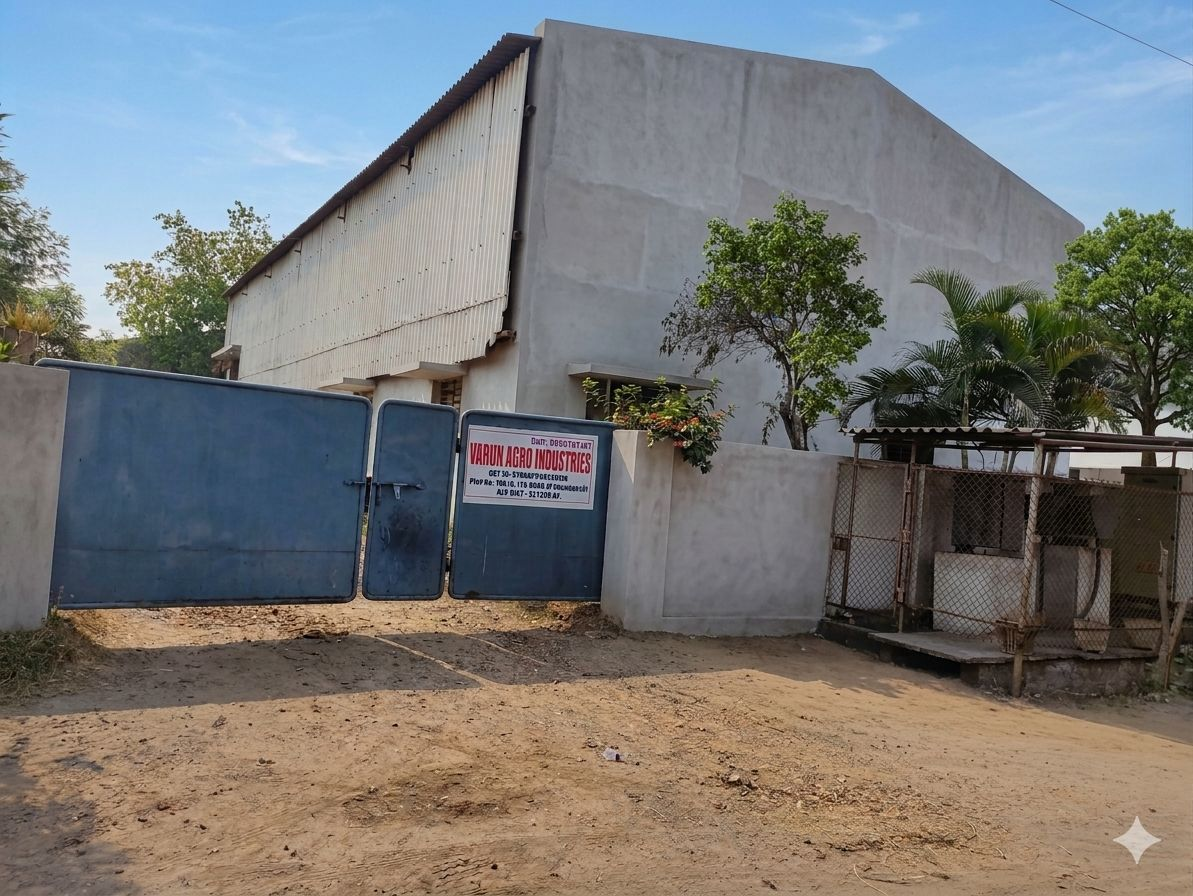
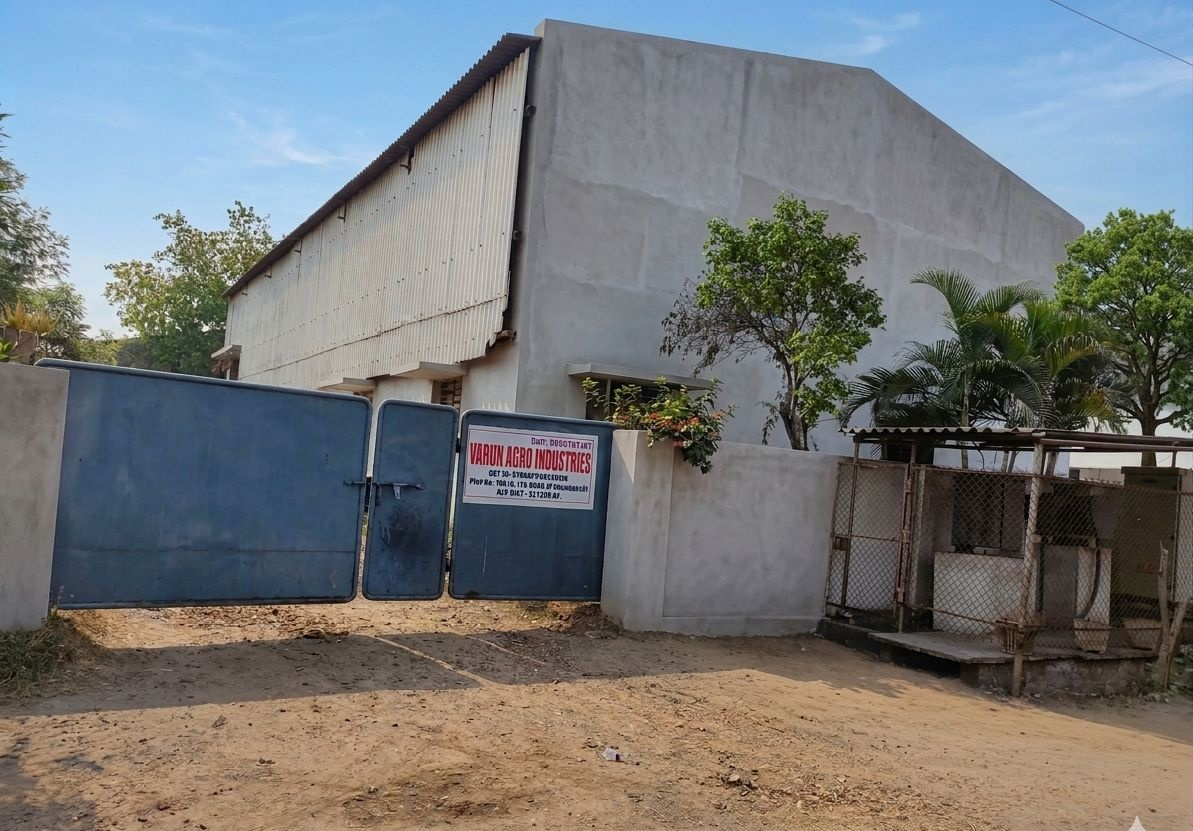
Feature update, changed the descriptions of products

diff --git a/products.html b/products.html
@@ -66,7 +66,7 @@
         <span class="eyebrow-text">Product Range</span>
       </div>
       <h2 class="section-title">What We Supply</h2>
-      <p class="section-sub">All products available in 25 kg and 50 kg bags. Custom mesh size and moisture specifications available on request.</p>
+      <p class="section-sub">All products packed in 50 kg bags. Standard mesh sizes: 80 &amp; 100 mesh. Contact us for custom requirements.</p>
 
       <div class="products-grid">
 
@@ -77,12 +77,11 @@
             <div class="product-tagline">Premium grade · High carbon content</div>
           </div>
           <div class="product-body">
-            <p class="product-desc">Derived from premium coconut shells. Highest carbon content among shell powders, the preferred raw material for activated carbon production and high-grade industrial uses.</p>
+            <p class="product-desc">Derived from premium coconut shells. Superior carbon content with consistent quality, ideal for agarbatti, mosquito coil, briquette and high-grade industrial manufacturing.</p>
             <table class="spec-table">
-              <tr><td>Moisture</td><td>&lt; 5%</td></tr>
-              <tr><td>Ash Content</td><td>&lt; 3%</td></tr>
-              <tr><td>Mesh Size</td><td>20 – 200 mesh</td></tr>
-              <tr><td>Packing</td><td>25 kg / 50 kg bags</td></tr>
+              <tr><td>Mesh Size</td><td>80, 100 mesh</td></tr>
+              <tr><td>Packing</td><td>50 kg bags</td></tr>
+              <tr><td>Pricing</td><td>Competitive</td></tr>
               <tr><td>Min. Order</td><td>1 MT</td></tr>
             </table>
           </div>
@@ -97,10 +96,9 @@
           <div class="product-body">
             <p class="product-desc">Processed from oil palm shells. Cost-effective filler for briquette, rubber and foundry industries. Strong binding properties with consistent high density.</p>
             <table class="spec-table">
-              <tr><td>Moisture</td><td>&lt; 6%</td></tr>
-              <tr><td>Ash Content</td><td>&lt; 4%</td></tr>
-              <tr><td>Mesh Size</td><td>20 – 150 mesh</td></tr>
-              <tr><td>Packing</td><td>25 kg / 50 kg bags</td></tr>
+              <tr><td>Mesh Size</td><td>80, 100 mesh</td></tr>
+              <tr><td>Packing</td><td>50 kg bags</td></tr>
+              <tr><td>Pricing</td><td>Competitive</td></tr>
               <tr><td>Min. Order</td><td>1 MT</td></tr>
             </table>
           </div>
@@ -116,9 +114,9 @@
             <p class="product-desc">Custom-ratio blend of coconut and palm shell powders. Formulated to specific buyer requirements, widely used in mosquito coil and agarbatti manufacturing for optimal burn properties.</p>
             <table class="spec-table">
               <tr><td>Blend Ratio</td><td>Custom (on request)</td></tr>
-              <tr><td>Moisture</td><td>&lt; 6%</td></tr>
-              <tr><td>Mesh Size</td><td>Custom</td></tr>
-              <tr><td>Packing</td><td>25 kg / 50 kg bags</td></tr>
+              <tr><td>Mesh Size</td><td>80, 100 mesh</td></tr>
+              <tr><td>Packing</td><td>50 kg bags</td></tr>
+              <tr><td>Pricing</td><td>Competitive</td></tr>
               <tr><td>Min. Order</td><td>1 MT</td></tr>
             </table>
           </div>
@@ -127,8 +125,8 @@
       </div>
 
       <div style="background:var(--gold-pale); border:1px solid var(--border); border-radius:var(--radius); padding:24px 28px; text-align:center; font-size:0.93rem; color:var(--text-md);">
-        Need a specific mesh size, custom blend or a different packing format?
-        <a href="contact.html" style="color:var(--gold); font-weight:600; margin-left:6px;">Contact us →</a>
+        Need a different mesh size, custom blend or specific formulation?
+        <a href="contact.html" style="color:var(--gold); font-weight:600; margin-left:6px;">Contact us for custom requirements →</a>
       </div>
     </div>
   </section>
@@ -147,40 +145,33 @@
         <div class="industry-item">
           <div class="industry-num">01</div>
           <div class="industry-content">
-            <h4>Activated Carbon Manufacturing</h4>
-            <p>Coconut shell powder is the highest-value feedstock for activated carbon production, used in water purification, air filtration, gold recovery, and pharmaceutical applications. Our high-carbon coconut shell powder meets the stringent quality requirements of activated carbon plants.</p>
-          </div>
-        </div>
-        <div class="industry-item">
-          <div class="industry-num">02</div>
-          <div class="industry-content">
             <h4>Agarbatti / Incense Stick Manufacturing</h4>
             <p>Shell powder acts as a key filler and binder in agarbatti production, giving structure and a consistent, even burn rate to incense sticks. Our coconut–palm blend is optimised specifically for this application.</p>
           </div>
         </div>
         <div class="industry-item">
-          <div class="industry-num">03</div>
+          <div class="industry-num">02</div>
           <div class="industry-content">
             <h4>Mosquito Coil Manufacturing</h4>
             <p>Used as a slow-burn filler in mosquito coil production, ensuring even combustion, structural integrity of the coil, and effective smoke release. A consistent mesh size is critical, which we guarantee per batch.</p>
           </div>
         </div>
         <div class="industry-item">
-          <div class="industry-num">04</div>
+          <div class="industry-num">03</div>
           <div class="industry-content">
             <h4>Briquette &amp; Bio-fuel Manufacturing</h4>
             <p>Palm and coconut shell powder are compressed into bio-fuel briquettes, a sustainable, high-calorific alternative to coal, used in industrial boilers, brick kilns and biomass energy plants.</p>
           </div>
         </div>
         <div class="industry-item">
-          <div class="industry-num">05</div>
+          <div class="industry-num">04</div>
           <div class="industry-content">
             <h4>Rubber &amp; Foundry Industry</h4>
             <p>Acts as an inert filler in rubber compounds and foundry sand molds. Improves structural density, reduces material cost, and maintains product quality, widely used by tyre and casting manufacturers.</p>
           </div>
         </div>
         <div class="industry-item">
-          <div class="industry-num">06</div>
+          <div class="industry-num">05</div>
           <div class="industry-content">
             <h4>Custom &amp; Emerging Applications</h4>
             <p>We work with buyers across niche applications to supply the right mesh size, blend ratio, and moisture specification. If your process requires a specific formulation, we can accommodate it.</p>

diff --git a/index.html b/index.html
@@ -81,7 +81,7 @@
         <span style="display:block; white-space:nowrap;">Premium Coconut &amp; Palm</span>
         <em style="display:block; white-space:nowrap;">Shell Powder Manufacturer</em>
       </h1>
-      <p>High-grade shell powder for activated carbon, agarbatti, mosquito coil and briquette industries. Bulk supply across India, direct from source.</p>
+      <p>Manufacturer and supplier of coconut shell powder and palm shell powder, based in Kondapalli, Vijayawada, Andhra Pradesh. Trusted by industries across India for over 15 years.</p>
       <div style="display:flex; gap:14px; flex-wrap:wrap;">
         <a href="#contact" class="btn btn-gold">Request a Free Quote</a>
         <a href="#products" class="btn btn-outline-dark">View Products</a>
@@ -116,7 +116,7 @@
         <span class="eyebrow-text">Our Products</span>
       </div>
       <h2 class="section-title">What We Supply</h2>
-      <p class="section-sub">Available in 25 kg and 50 kg bags. Custom mesh size and moisture specifications on request.</p>
+      <p class="section-sub">All products packed in 50 kg bags. Standard mesh sizes: 80 &amp; 100 mesh. Contact us for custom requirements.</p>
 
       <div class="products-grid">
         <div class="product-card">
@@ -128,12 +128,11 @@
             <div class="product-tagline">Premium grade · High carbon content</div>
           </div>
           <div class="product-body">
-            <p class="product-desc">High carbon content, low ash and moisture. Preferred raw material for activated carbon and high-grade industrial applications.</p>
+            <p class="product-desc">Derived from premium coconut shells. Superior carbon content with consistent quality, ideal for agarbatti, mosquito coil, briquette and high-grade industrial manufacturing.</p>
             <table class="spec-table">
-              <tr><td>Moisture</td><td>&lt; 5%</td></tr>
-              <tr><td>Ash Content</td><td>&lt; 3%</td></tr>
-              <tr><td>Mesh Size</td><td>20 – 200 mesh</td></tr>
-              <tr><td>Packing</td><td>25 kg / 50 kg bags</td></tr>
+              <tr><td>Mesh Size</td><td>80, 100 mesh</td></tr>
+              <tr><td>Packing</td><td>50 kg bags</td></tr>
+              <tr><td>Pricing</td><td>Competitive</td></tr>
               <tr><td>Min. Order</td><td>1 MT</td></tr>
             </table>
           </div>
@@ -149,10 +148,9 @@
           <div class="product-body">
             <p class="product-desc">Processed from oil palm shells. Strong binding properties with consistent high density. Ideal for briquette, rubber and foundry industries.</p>
             <table class="spec-table">
-              <tr><td>Moisture</td><td>&lt; 6%</td></tr>
-              <tr><td>Ash Content</td><td>&lt; 4%</td></tr>
-              <tr><td>Mesh Size</td><td>20 – 150 mesh</td></tr>
-              <tr><td>Packing</td><td>25 kg / 50 kg bags</td></tr>
+              <tr><td>Mesh Size</td><td>80, 100 mesh</td></tr>
+              <tr><td>Packing</td><td>50 kg bags</td></tr>
+              <tr><td>Pricing</td><td>Competitive</td></tr>
               <tr><td>Min. Order</td><td>1 MT</td></tr>
             </table>
           </div>
@@ -169,9 +167,9 @@
             <p class="product-desc">Custom-ratio blend formulated to buyer requirements. Widely used in mosquito coil and agarbatti manufacturing for optimal burn properties.</p>
             <table class="spec-table">
               <tr><td>Blend Ratio</td><td>Custom (on request)</td></tr>
-              <tr><td>Moisture</td><td>&lt; 6%</td></tr>
-              <tr><td>Mesh Size</td><td>Custom</td></tr>
-              <tr><td>Packing</td><td>25 kg / 50 kg bags</td></tr>
+              <tr><td>Mesh Size</td><td>80, 100 mesh</td></tr>
+              <tr><td>Packing</td><td>50 kg bags</td></tr>
+              <tr><td>Pricing</td><td>Competitive</td></tr>
               <tr><td>Min. Order</td><td>1 MT</td></tr>
             </table>
           </div>
@@ -200,40 +198,33 @@
           <div class="industry-item">
             <div class="industry-num">01</div>
             <div class="industry-content">
-              <h4>Activated Carbon Manufacturing</h4>
-              <p>Coconut shell powder is the highest-value feedstock for activated carbon — used in water purification, air filtration, gold recovery and pharmaceutical applications.</p>
-            </div>
-          </div>
-          <div class="industry-item">
-            <div class="industry-num">02</div>
-            <div class="industry-content">
               <h4>Agarbatti / Incense Stick Manufacturing</h4>
               <p>Shell powder acts as a key filler and binder in agarbatti production, giving structure and a consistent, even burn rate to incense sticks.</p>
             </div>
           </div>
           <div class="industry-item">
-            <div class="industry-num">03</div>
+            <div class="industry-num">02</div>
             <div class="industry-content">
               <h4>Mosquito Coil Manufacturing</h4>
               <p>Used as a slow-burn filler ensuring even combustion, structural integrity and effective smoke release. Consistent mesh size guaranteed per batch.</p>
             </div>
           </div>
           <div class="industry-item">
-            <div class="industry-num">04</div>
+            <div class="industry-num">03</div>
             <div class="industry-content">
               <h4>Briquette &amp; Bio-fuel Manufacturing</h4>
               <p>Compressed into bio-fuel briquettes — a sustainable alternative to coal used in industrial boilers, brick kilns and biomass energy plants.</p>
             </div>
           </div>
           <div class="industry-item">
-            <div class="industry-num">05</div>
+            <div class="industry-num">04</div>
             <div class="industry-content">
               <h4>Rubber &amp; Foundry Industry</h4>
               <p>Acts as an inert filler in rubber compounds and foundry sand molds — improves structural density and reduces material cost.</p>
             </div>
           </div>
           <div class="industry-item">
-            <div class="industry-num">06</div>
+            <div class="industry-num">05</div>
             <div class="industry-content">
               <h4>Custom Applications</h4>
               <p>We accommodate niche requirements — specific mesh size, blend ratio and moisture specification tailored to your process.</p>
@@ -341,7 +332,6 @@
                 <label for="industry">Your Industry</label>
                 <select id="industry" name="industry">
                   <option value="">Select industry</option>
-                  <option>Activated Carbon Manufacturing</option>
                   <option>Agarbatti / Incense Sticks</option>
                   <option>Mosquito Coil Manufacturing</option>
                   <option>Briquette / Bio-fuel</option>

diff --git a/contact.html b/contact.html
@@ -152,7 +152,6 @@
                 <label for="industry">Your Industry</label>
                 <select id="industry" name="industry">
                   <option value="">— Select industry —</option>
-                  <option>Activated Carbon Manufacturing</option>
                   <option>Agarbatti / Incense Sticks</option>
                   <option>Mosquito Coil Manufacturing</option>
                   <option>Briquette / Bio-fuel</option>